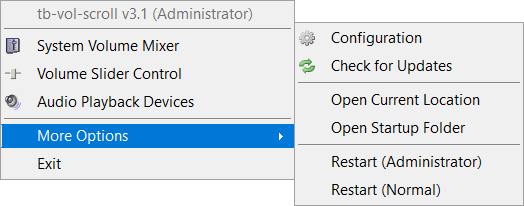
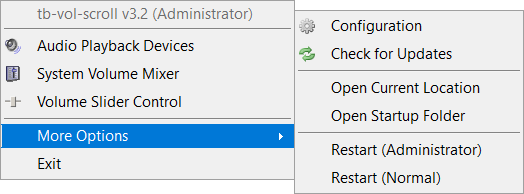
Bump version to 3.2

diff --git a/Properties/AssemblyInfo.cs b/Properties/AssemblyInfo.cs
@@ -32,5 +32,5 @@ using System.Runtime.InteropServices;
 // You can specify all the values or you can default the Build and Revision Numbers
 // by using the '*' as shown below:
 // [assembly: AssemblyVersion("1.0.*")]
-[assembly: AssemblyVersion("3.1")]
-[assembly: AssemblyFileVersion("3.1")]
+[assembly: AssemblyVersion("3.2")]
+[assembly: AssemblyFileVersion("3.2")]

diff --git a/README.md b/README.md
@@ -1,5 +1,5 @@
 [![Run on Repl.it](https://repl.it/badge/github/dvingerh/TbVolScroll)](https://repl.it/github/dvingerh/TbVolScroll) 
-## tb-vol-scroll 3.1
+## tb-vol-scroll 3.2
 
 Simple utility to enable volume control when your mouse cursor is positioned above the taskbar, among a few other options.
 
